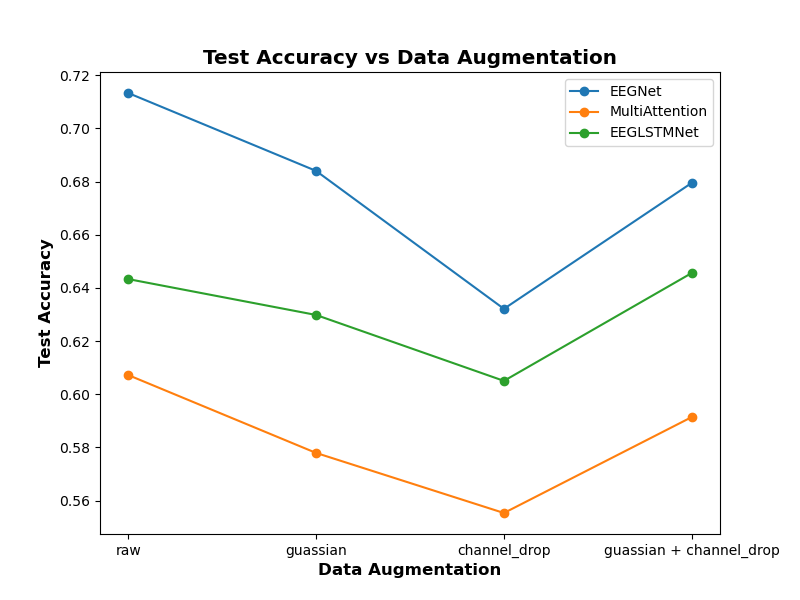
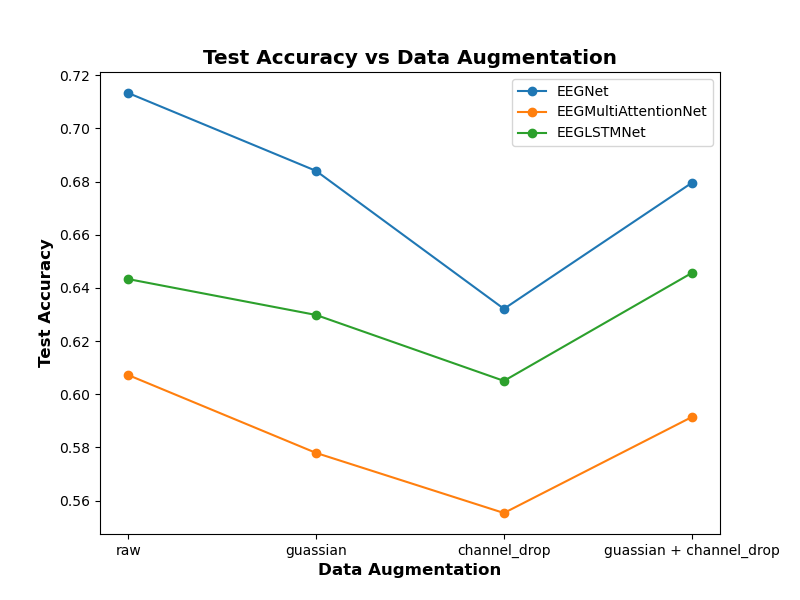
plot

Changed region(s): [[0.6562, 0.12, 0.875, 0.24]]

diff --git a/graph/data_aug_plot.py b/graph/data_aug_plot.py
@@ -12,7 +12,7 @@ subjects = list(range(len(eegnet_accuracies)))
 # Plotting
 plt.figure(figsize=(8, 6))
 plt.plot(subjects, eegnet_accuracies, label='EEGNet', marker='o')
-plt.plot(subjects, multi_attention_accuracies, label='MultiAttention', marker='o')
+plt.plot(subjects, multi_attention_accuracies, label='EEGMultiAttentionNet', marker='o')
 plt.plot(subjects, eeglstmnet_accuracies, label='EEGLSTMNet', marker='o')
 #plt.plot(subjects, eegattentionnet_accuracies, label='EEGAttentionNet', marker='o')
 

diff --git a/graph/graphPlot.py b/graph/graphPlot.py
@@ -12,7 +12,7 @@ subjects = list(range(len(eegnet_accuracies)))
 # Plotting
 plt.figure(figsize=(12, 7))
 plt.plot(subjects, eegnet_accuracies, label='EEGNet', marker='o')
-plt.plot(subjects, multi_attention_accuracies, label='MultiAttention', marker='o')
+plt.plot(subjects, multi_attention_accuracies, label='EEGMultiAttentionNet', marker='o')
 plt.plot(subjects, eeglstmnet_accuracies, label='EEGLSTMNet', marker='o')
 plt.plot(subjects, eegattentionnet_accuracies, label='EEGAttentionNet', marker='o')
 

diff --git a/graph/time_plot.py b/graph/time_plot.py
@@ -12,7 +12,7 @@ subjects = list(range(len(eegnet_accuracies)))
 # Plotting
 plt.figure(figsize=(8,6))
 plt.plot(subjects, eegnet_accuracies, label='EEGNet', marker='o')
-plt.plot(subjects, multi_attention_accuracies, label='MultiAttention', marker='o')
+plt.plot(subjects, multi_attention_accuracies, label='EEGMultiAttentionNet', marker='o')
 plt.plot(subjects, eeglstmnet_accuracies, label='EEGLSTMNet', marker='o')
 #plt.plot(subjects, eegattentionnet_accuracies, label='EEGAttentionNet', marker='o')
 
